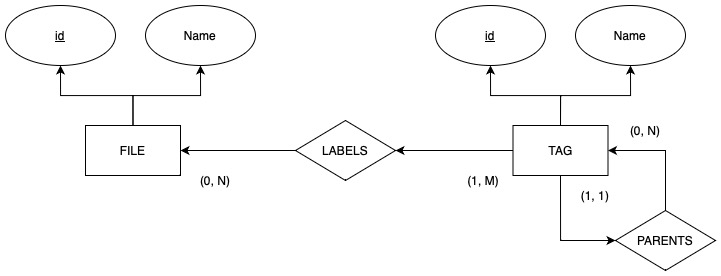
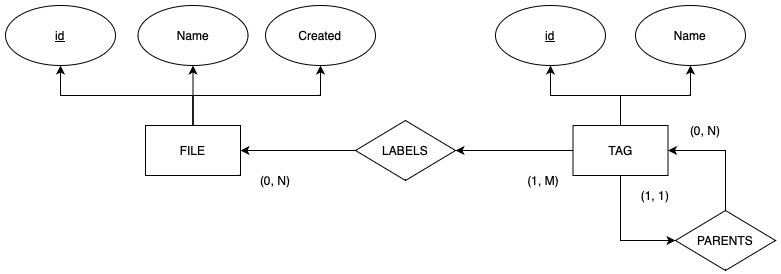
Added foundation for database updates

diff --git a/src/main/java/com/example/tagger/Database.java b/src/main/java/com/example/tagger/Database.java
@@ -11,11 +11,13 @@ import java.util.Vector;
 
 public class Database
 {
+    private static final int VERSION = 1;
+
     // Ensure the database file exists
-    public static void verify(final String PATH)
+    public static boolean verify(final String path)
     {
         // Create a file object representing what should be a valid database in the device's file system
-        File database = new File(String.format("%s/database.db", PATH));
+        File database = new File(String.format("%s/database.db", path));
         if (!database.isFile())
         {
             // If this file object does not represent a valid file, try to create it
@@ -41,21 +43,31 @@ public class Database
                                     "FOREIGN KEY (parent_id) REFERENCES Tag(id) ON DELETE CASCADE," +
                                     "FOREIGN KEY (child_id) REFERENCES Tag(id) ON DELETE CASCADE," +
                                     "PRIMARY KEY (parent_id, child_id))";
+                            String databaseInfoSchema = "CREATE TABLE DatabaseInfo(version INTEGER NOT NULL)";
                             Statement statement = connection.createStatement();
                             statement.execute(fileSchema);
                             statement.execute(tagSchema);
                             statement.execute(fileTagsSchema);
                             statement.execute(tagParentageSchema);
+                            statement.execute(databaseInfoSchema);
+                            // Insert the current version number into the DatabaseInfo table
+                            String sql = String.format("INSERT INTO DatabaseInfo VALUES (%d)", VERSION);
+                            statement.execute(sql);
                             statement.close();
                         }
+                        else
+                            return false;
                     }
                 }
             }
-            catch (IOException | SQLException e)
+            catch (IOException | SQLException exception)
             {
-                throw new RuntimeException(e);
+                System.out.println(exception.toString());
+                return false;
             }
         }
+
+        return true;
     }
 
     // Save a newly created TagNode to the database

diff --git a/src/main/java/com/example/tagger/TaggerApplication.java b/src/main/java/com/example/tagger/TaggerApplication.java
@@ -26,20 +26,23 @@ public class TaggerApplication extends Application
                 path = new Scanner(input).nextLine();
         }
 
-        Database.verify(path);
+        if (Database.verify(path))
+        {
+            // Simple MVC design pattern example: https://stackoverflow.com/questions/32342864
+            TaggerModel taggerModel = new TaggerModel(path);
 
-        // Simple MVC design pattern example: https://stackoverflow.com/questions/32342864
-        TaggerModel taggerModel = new TaggerModel(path);
+            FXMLLoader fxmlLoader = new FXMLLoader(TaggerApplication.class.getResource("tagger-view.fxml"));
+            Scene scene = new Scene(fxmlLoader.load(), 850, 600);
+            TaggerController taggerController = fxmlLoader.getController();
+            taggerController.setModel(taggerModel);
+            scene.addEventFilter(KeyEvent.KEY_PRESSED, taggerController::keyEventHandler);
 
-        FXMLLoader fxmlLoader = new FXMLLoader(TaggerApplication.class.getResource("tagger-view.fxml"));
-        Scene scene = new Scene(fxmlLoader.load(), 850, 600);
-        TaggerController taggerController = fxmlLoader.getController();
-        taggerController.setModel(taggerModel);
-        scene.addEventFilter(KeyEvent.KEY_PRESSED, taggerController::keyEventHandler);
-
-        stage.setTitle("Tagger");
-        stage.setScene(scene);
-        stage.show();
+            stage.setTitle("Tagger");
+            stage.setScene(scene);
+            stage.show();
+        }
+        else
+            IOManager.showError("Database cannot be verified");
     }
 
     public static void main(String[] args)
